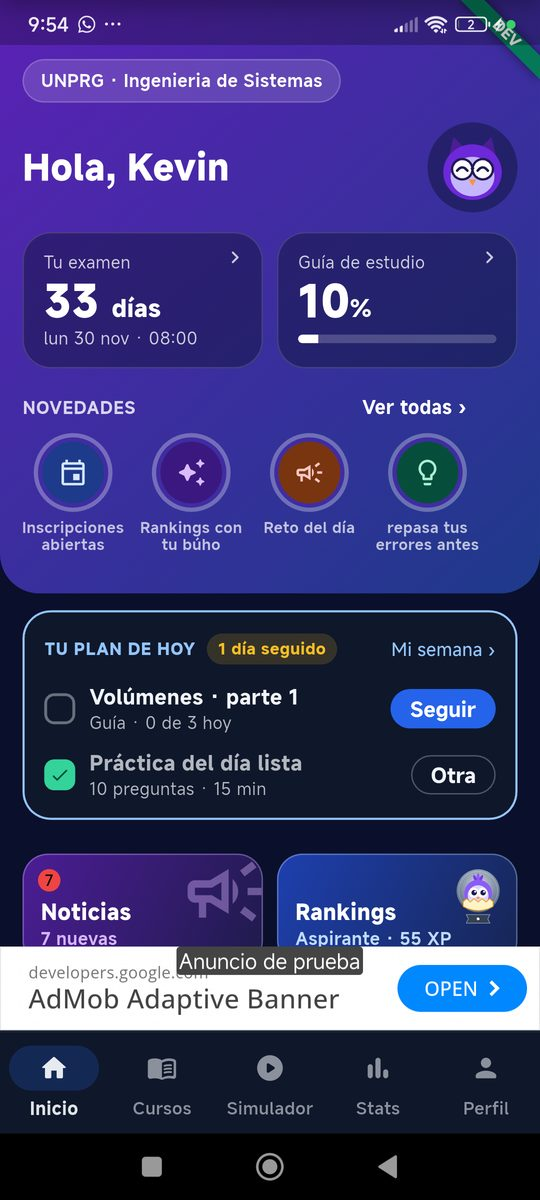
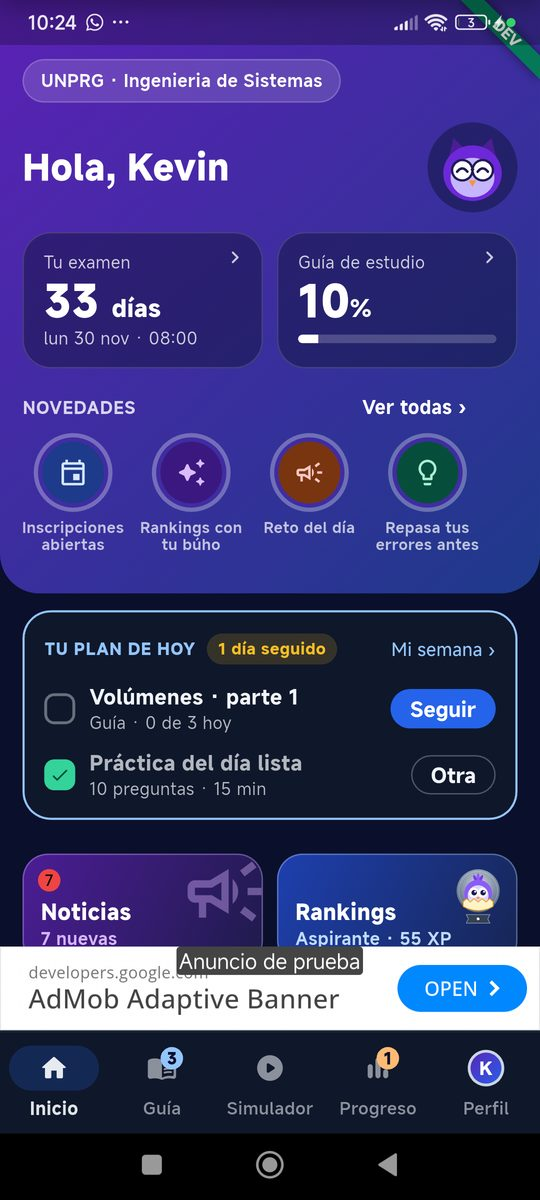
Barra de abajo N5: nombres en la vista previa, Anuncios y guías

diff --git a/docs/guias/guia_app.html b/docs/guias/guia_app.html
@@ -70,6 +70,7 @@
 
 <!-- ============================================================ INICIO -->
 <h2 id="inicio">Inicio</h2>
+<p><b>Barra de abajo</b> (lienzo https://claude.ai/artifact/NhCeJV4PapjU7Eqp7TmjBj, «N5»): Inicio · <b>Guía</b> (antes «Cursos») · Simulador · <b>Progreso</b> (antes «Stats») · Perfil. «Guía» lleva un número azul con las partes de la guía que te faltan hoy según tu plan; «Progreso», un número naranja con tu racha de días; «Perfil», tu inicial en un círculo. Sin plan no hay números. La pestaña marcada es la de la pantalla abierta (Rankings marca la pestaña desde la que entraste).</p>
 <p>Es la primera pestaña (lienzo «Inicio final»). Muestra lo que el alumno tiene pendiente, cuánto lleva de su guía, cuánto falta para su examen y lo lleva a los demás apartados.</p>
 <div class="screen two">
   <figure><img src="img/ini-inicio.jpg" alt="Inicio con las historias en la cabecera y el plan de hoy"><figcaption>Inicio con «NOVEDADES» en la cabecera (TEST, 28-oct-2026).</figcaption></figure>
@@ -146,7 +147,7 @@
 <p>Anuncios de AdMob para los alumnos sin plan premium (contrato <code>docs/ads_contract.md</code>, Fase 5A de la reestructuración de costos). Regla fija: <b>nunca</b> dentro de una lección, un examen en curso ni las historias. Todo lo demás lo decide el admin en Configuración → Anuncios y se puede apagar sin publicar una versión nueva. Mientras no haya cuenta de AdMob, la app usa los anuncios de prueba de Google (se ven como anuncios reales con la etiqueta «Test Ad»).</p>
 <div class="table-wrap"><table>
   <tr><th>Dónde</th><th>Qué se ve</th><th>Cuándo aparece</th></tr>
-  <tr><td class="msg">Pestañas Inicio, Cursos, Simulador (portada), Stats y Perfil; lista de Noticias; Rankings</td><td>Franja (banner adaptable) al pie, sobre la barra de pestañas. Al cambiar de pestaña el mismo banner aparece al instante.</td><td>Si el admin encendió esa pantalla <span class="chip info">ADMIN</span> y el anuncio cargó (la primera vez tarda unos segundos); si no carga, no ocupa espacio.</td></tr>
+  <tr><td class="msg">Pestañas Inicio, Guía, Simulador (portada), Progreso y Perfil; lista de Noticias; Rankings</td><td>Franja (banner adaptable) al pie, sobre la barra de pestañas. Al cambiar de pestaña el mismo banner aparece al instante.</td><td>Si el admin encendió esa pantalla <span class="chip info">ADMIN</span> y el anuncio cargó (la primera vez tarda unos segundos); si no carga, no ocupa espacio.</td></tr>
   <tr><td class="msg">Al terminar un examen (de parte, de dominio o del Simulador), antes de ver el resultado</td><td>Anuncio de pantalla completa; se cierra con la X y recién entonces aparece el resultado.</td><td>Siempre, de fábrica. El admin puede liberar el primer examen del día <span class="chip info">ADMIN</span> y pedir un mínimo de {minutos} <span class="chip info">ADMIN</span> 0 entre dos. Si el anuncio no estaba listo se espera hasta 5 s y se sigue sin él.</td></tr>
   <tr><td class="msg">Revisión de un examen: tarjeta con el búho «Desbloquea la explicación» · «Ganas +5 XP · te quedan 25 XP hoy» · «Ver video · +5 XP» · «Premium»</td><td>En las preguntas falladas o en blanco, en lugar de la explicación. Las acertadas se ven directo.</td><td>Si el admin tiene los videos encendidos <span class="chip info">ADMIN</span>. Al terminar el video la explicación se abre con el búho feliz, «¡Así se resuelve!», la insignia «+5 XP» y el aviso «+5 XP por aprender de tu error · te quedan 20 XP hoy»; no se vuelve a pedir en la sesión. Cada pregunta da XP una sola vez; con el tope diario lleno la tarjeta dice «Hoy ya ganaste tus 25 XP» y el botón «Ver video y abrir». Con XP apagado en el admin: «Mira un video corto para verla.». Si el video no carga, la explicación se abre igual. Si se cierra antes de tiempo: «Termina el video para ver la explicación.».</td></tr>
   <tr><td class="msg">Alumno premium</td><td>Nada.</td><td>Con <code>premium.until</code> vigente en el perfil (ver «Plan Premium»).</td></tr>
@@ -1137,6 +1138,7 @@ flowchart LR
   <li><b>19-oct-2026</b> · Candado del video renovado: tarjeta compacta con el degradado de la cabecera y el búho guiñando, «Desbloquea la explicación · Ganas +5 XP · te quedan 25 XP hoy», «Ver video · +5 XP» y «Premium». Ver el video completo da XP (5 por explicación, tope de 25 al día, una vez por pregunta, ajustables en el admin) y abre la explicación con el búho feliz y «¡Así se resuelve!».</li>
   <li><b>19-oct-2026</b> · Revisión por pregunta renovada (examen de parte, de dominio y Simulador): filtros «Falladas · En blanco · Correctas · Todas», mapa de casillas para saltar a cualquier pregunta, tarjeta que se entiende cerrada («Marcaste B · era C» y el inicio del enunciado), todas las alternativas marcadas al abrirla (rojo la tuya, verde la correcta, gris en blanco) y, en el Simulador, «Ver en la guía» por pregunta.</li>
   <li><b>19-oct-2026</b> · Anuncios: el banner va también en Cursos, Simulador (portada), Stats y Perfil (siete pantallas, cada una con su interruptor en Configuración → Anuncios) y se comparte entre pestañas para aparecer al instante; el anuncio de pantalla completa sale al terminar cada examen, antes del resultado (de fábrica sin espera ni primer examen libre; ambos siguen siendo ajustes del admin). App #123, admin #107.</li>
+  <li><b>29-oct-2026</b> · Barra de abajo N5: «Cursos» pasa a «Guía» y «Stats» a «Progreso»; avisos con las partes de hoy (Guía) y la racha (Progreso) y tu inicial en Perfil. En el admin, Configuración → Anuncios usa los mismos nombres. Captura del Inicio nueva.</li>
   <li><b>28-oct-2026</b> · Inicio: las historias pasan a la cabecera («NOVEDADES · Ver todas ›») con su nombre corto en vez de la categoría, y los atajos son cuatro mosaicos de color con una línea de estado (lienzo https://claude.ai/artifact/UsM2hc7LMjh2Aua6FCGFgW, «E ajustada» e «Historias en la cabecera»). Admin: «Nombre en la historia». Capturas nuevas.</li>
   <li><b>28-oct-2026</b> · Rankings renovado (lienzo https://claude.ai/artifact/75ZcsgNe2yxgUL7hbgLdmX): pestañas «Mi liga» | «Reto de hoy», cabecera con el búho que evoluciona por etapa, podio del grupo, ↑ / ↓ por fila, hoja «Cómo funciona la liga», el reto con invitación y podio antes de jugar y tu puesto después, «Esta semana» con tu puesto destacado y el búho cuando no tienes puesto, aviso del lunes en pantalla completa con la evolución del búho, y atajos de Inicio y Perfil con el búho de tu etapa. Corregido: la barra marcaba «Perfil» al abrir Rankings desde Inicio, y «Aún hay pocos de tu carrera aquí» salía en la pestaña de la universidad.</li>
   <li><b>27-oct-2026</b> · «Tu plan de hoy» compacta (Inicio y Simulador): cabecera en una línea con «Mi semana ›», cada tarea con título y detalle de una línea, botones más pequeños, sin la frase del ritmo (queda en Tu semana) y sin el chip de días en el Inicio. Capturas nuevas.</li>

diff --git a/docs/guias/arquitectura.html b/docs/guias/arquitectura.html
@@ -529,6 +529,7 @@ flowchart LR
 
 <h2 id="cambios">Historial de cambios</h2>
 <ul class="changelog">
+<li><b>29-oct-2026</b> · Barra de abajo N5 (solo app): nombres «Guía» y «Progreso» (claves <code>appNavCourses</code>/<code>appNavStats</code>), avisos desde <code>studyTodayProvider</code> y <code>planWeekProvider</code> (los mismos datos del Inicio, sin lecturas nuevas) e inicial del alumno en Perfil. Rutas sin cambios.</li>
 <li><b>28-oct-2026</b> · Noticias: <code>story.label</code> (string, máx. 24) = «Nombre en la historia»; la app lo muestra en el círculo o, si falta, arma el nombre del titular (<code>NewsItem.storyName</code>). El Inicio pone las historias en la cabecera y cambia los atajos por mosaicos; sin lecturas nuevas. <code>tool/sync_app_preview.py</code> adapta <code>CachedNetworkImage</code> a <code>Image.network</code> en la copia del admin.</li>
 <li><b>28-oct-2026</b> · Rankings renovado (solo app): pestañas «Mi liga» | «Reto de hoy» en <code>/rankings</code> (<code>?tab=reto</code>, <code>?from=</code> para la pestaña de la barra). Lecturas nuevas: antes de jugar el reto, una consulta de conteo y 3 filas de <code>challengeEntries</code> (cacheadas <code>tableCacheMinutes</code>); el resto reutiliza las del grupo, el asiento y las tablas. Etapas dibujadas en la app (<code>LeagueStageEmblem</code>), sin imágenes nuevas. Sin cambios en Functions, reglas ni configuración.</li>
 <li><b>27-oct-2026</b> · Onboarding: paso opcional «Arma tu plan de estudio» (<code>StepPlanPro</code>, formulario compartido <code>PlanGoalFields</code> con Tu meta). Si el alumno lo completa, la app escribe <code>{profile}/{uid}/simulatorPlan/current</code> al finalizar, antes de crear el perfil (misma regla de seguridad del dueño; una escritura). La fecha del examen sale del <code>nextExam</code> de la universidad elegida, que el onboarding ya tiene en memoria: sin lecturas nuevas. Sin cambios en Functions, reglas ni configuración.</li>

diff --git a/lib/src/app_preview/app_exam_preview.dart b/lib/src/app_preview/app_exam_preview.dart
@@ -52,9 +52,9 @@ class AppExamQuestionScreen extends StatelessWidget {
 
   static const _tabs = [
     (Icons.home_rounded, 'Inicio'),
-    (Icons.menu_book_rounded, 'Cursos'),
+    (Icons.menu_book_rounded, 'Guía'),
     (Icons.play_circle_rounded, 'Simulador'),
-    (Icons.bar_chart_rounded, 'Stats'),
+    (Icons.bar_chart_rounded, 'Progreso'),
     (Icons.person_rounded, 'Perfil'),
   ];
 

diff --git a/lib/src/domain/ads_settings.dart b/lib/src/domain/ads_settings.dart
@@ -27,9 +27,9 @@ class AdsSettings {
   ];
   static const bannerScreenLabels = {
     'home': 'Inicio',
-    'courses': 'Cursos',
+    'courses': 'Guía (cursos)',
     'simulator': 'Simulador (inicio)',
-    'stats': 'Stats',
+    'stats': 'Progreso',
     'profile': 'Perfil',
     'news': 'Lista de noticias',
     'rankings': 'Rankings',

diff --git a/PROGRESO.md b/PROGRESO.md
@@ -2,11 +2,12 @@
 
 > Actualizar en cada desarrollo, commit o PR (también `../iya-app/PROGRESO.md`).
 
-_Última actualización: 2026-10-28_
+_Última actualización: 2026-10-29_
 
 > **Retomar en otra máquina:** `docs/contexto_claude/README.md` tiene el punto exacto donde quedamos (2026-10-19), las reglas de trabajo, los pendientes y una copia de la memoria de Claude.
 
 ## Estado actual
+- **Barra de abajo N5 (2026-10-29, rama `codex/menu-inferior`):** solo app (ver `../iya-app/PROGRESO.md`). Aquí: la vista previa «Así la ve el alumno» (`app_preview/app_exam_preview.dart`) y Configuración → Anuncios (`AdsSettings.bannerScreenLabels`) usan «Guía» y «Progreso»; guía de la app y arquitectura. Fusionados el 2026-10-29: admin #125 y #126, app #141 y #142. Suite 179 en verde.
 - **Inicio con historias en la cabecera (2026-10-28, rama `codex/inicio-historias`):** admin: campo «Nombre en la historia (opcional)» (`NewsItem.storyLabel`, `story.label`, máx. 24, validado al publicar) en el editor de noticias y vista previa del círculo como en la cabecera (`_storyName`, misma regla que la app). `tool/sync_app_preview.py` ahora convierte `CachedNetworkImage` en `Image.network` (la copia quedó al día). Contrato `docs/news_contract.md` (y copia en la app). En TEST se crearon 5 noticias con historia (`prueba-historia-admision`, `-rankings`, `-reto`, `-consejo`, `-comunicado`). Pruebas: `news_domain_test.dart`; suite 179 en verde. La app: ver `../iya-app/PROGRESO.md`.
 - **Rankings renovado (2026-10-28, rama `codex/rankings-renovado`):** solo app (detalle en `../iya-app/PROGRESO.md`). Aquí: guía de la app (Rankings con pestañas, búho por etapa, reto de hoy, Esta semana, aviso del lunes) y changelog de arquitectura. Sin cambios de Functions, reglas ni configuración: usa `{config}/rankings` como está. **Probado en el teléfono (2026-10-28, TEST):** atajo de Inicio con el búho de Aspirante; Rankings desde Inicio marca «Inicio»; «Reto de hoy» con punto ámbar y «Sé el primero en jugar hoy»; hoja ⓘ; se jugó el reto (0/10, +35 XP) y «Ver la tabla de hoy» abrió Rankings en el reto con «1° de 1» y la barra en «Simulador»; Mi liga pasó a tener grupo («1° de 1», zona de subida, ↑); «Esta semana» con tu puesto y «Aún hay pocos de tu carrera aquí» solo en la carrera; tarjeta del Perfil con el búho. Ajuste: el círculo de color del 1.º aparece cuando no hay podio (menos de 3). Capturas reales en la guía (`rk-mi-liga`, `rk-reto-hoy`, `rk-como-funciona`, `rk-esta-semana`, `rk-reto-tabla`). El aviso del lunes solo se probó con pruebas de widget (necesita un cierre de semana real).
 - **«Tu plan de hoy» compacta (2026-10-27, rama `codex/plan-hoy-compacto`):** solo app (detalle en `../iya-app/PROGRESO.md`). Aquí: guía de la app (tabla de la tarjeta con los textos cortos, sin la fila del ritmo, capturas `ini-plan-hoy.jpg` y `sim-inicio-plan.jpg` nuevas). Sin cambios de Functions, reglas ni configuración.
